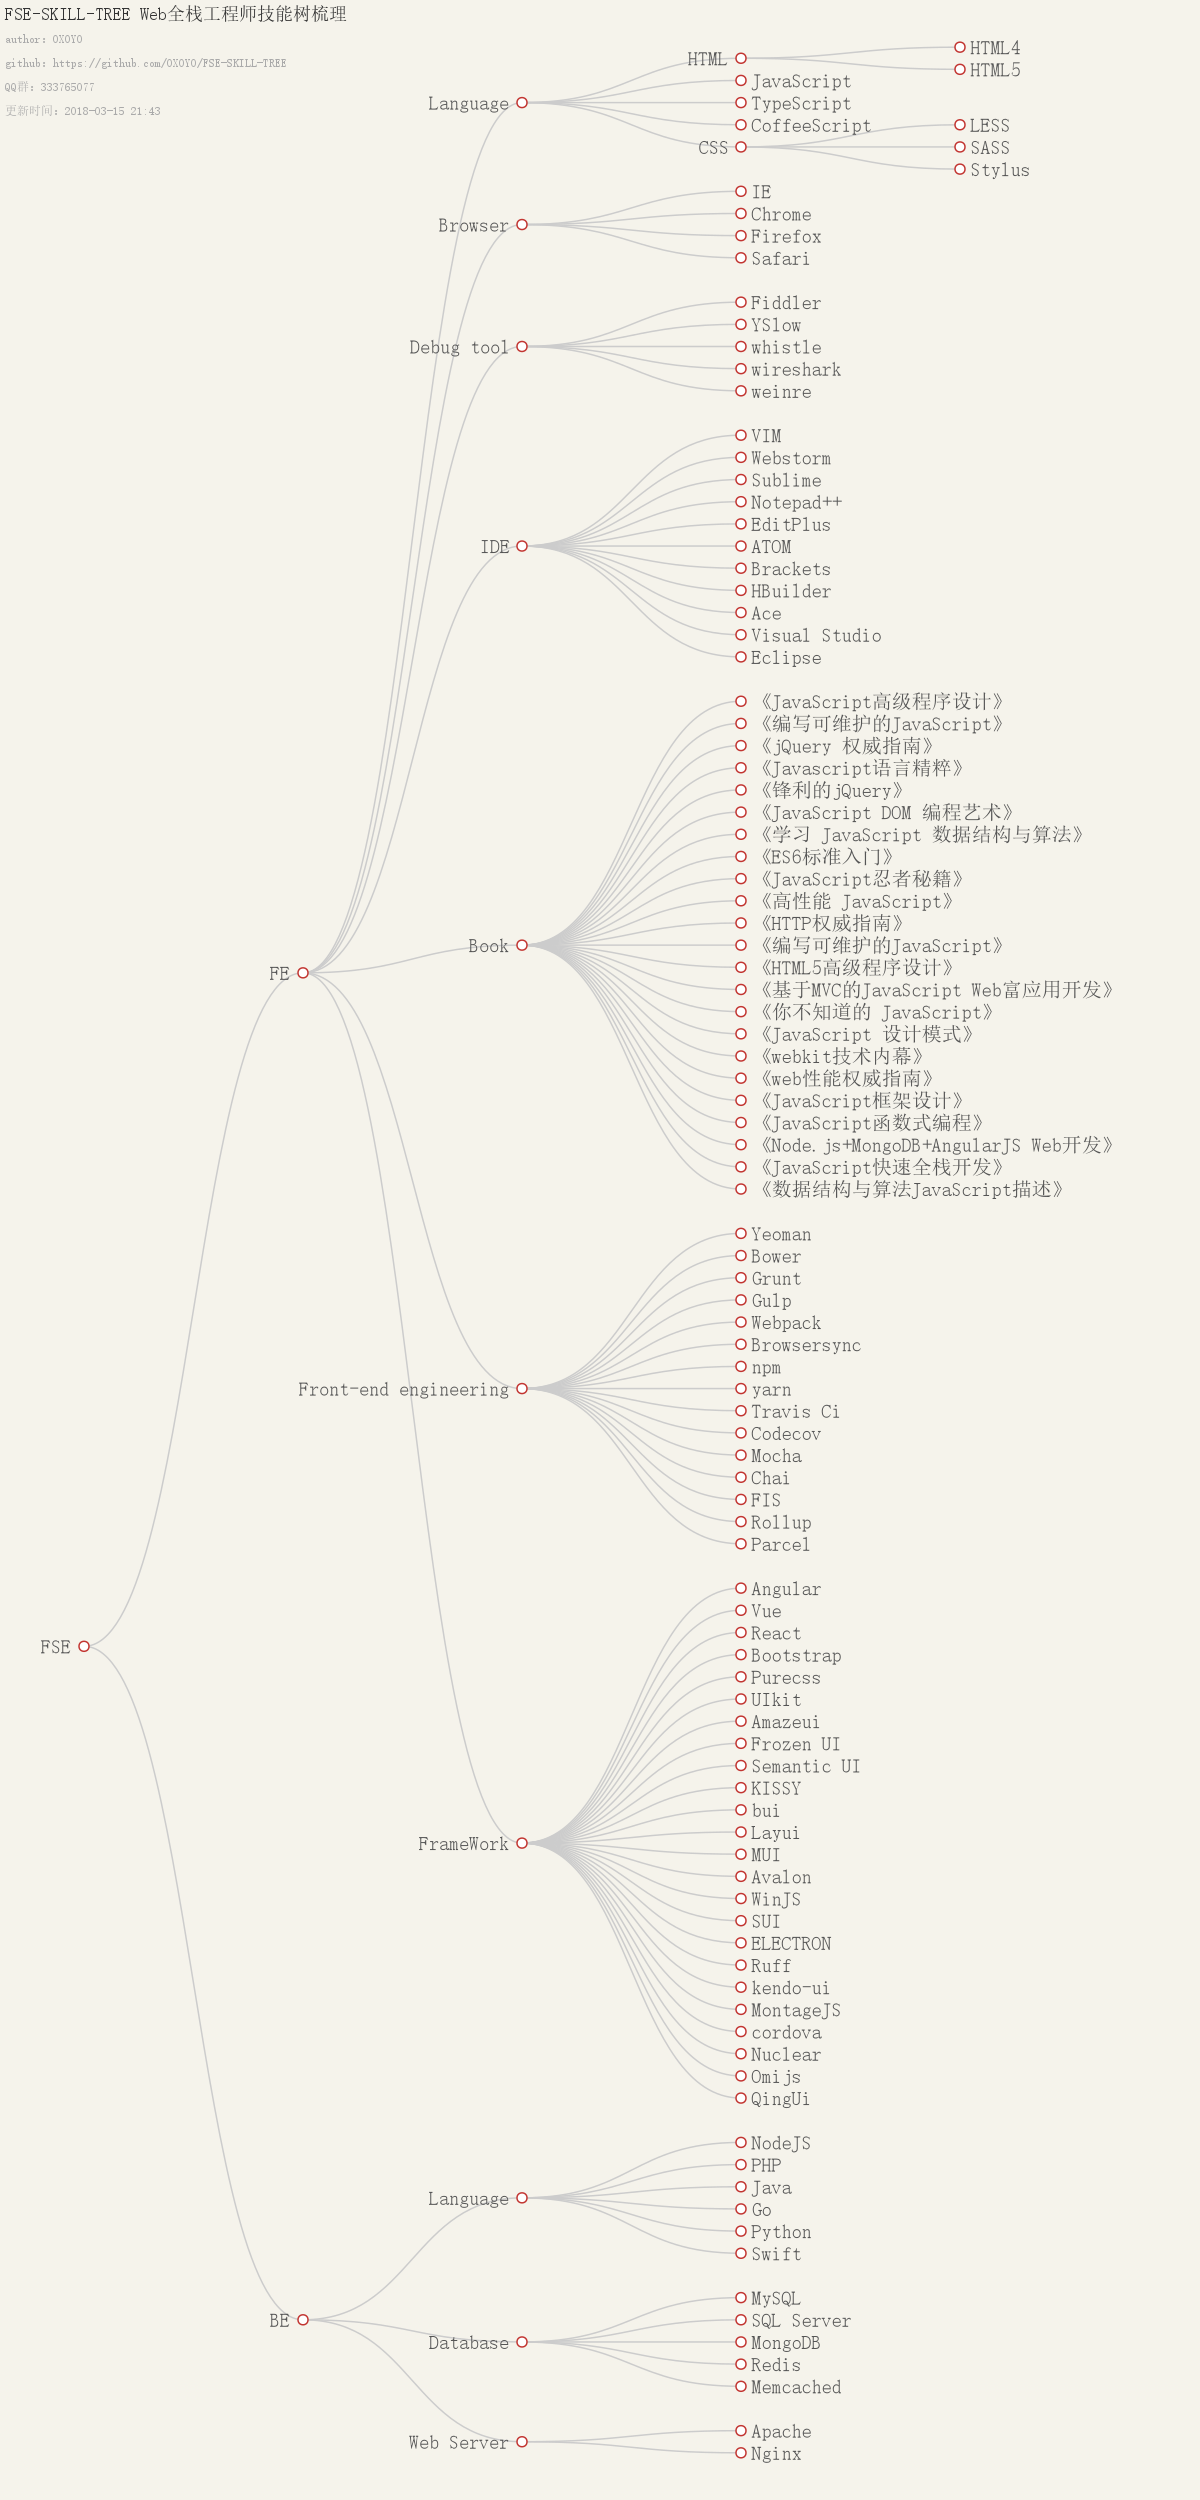
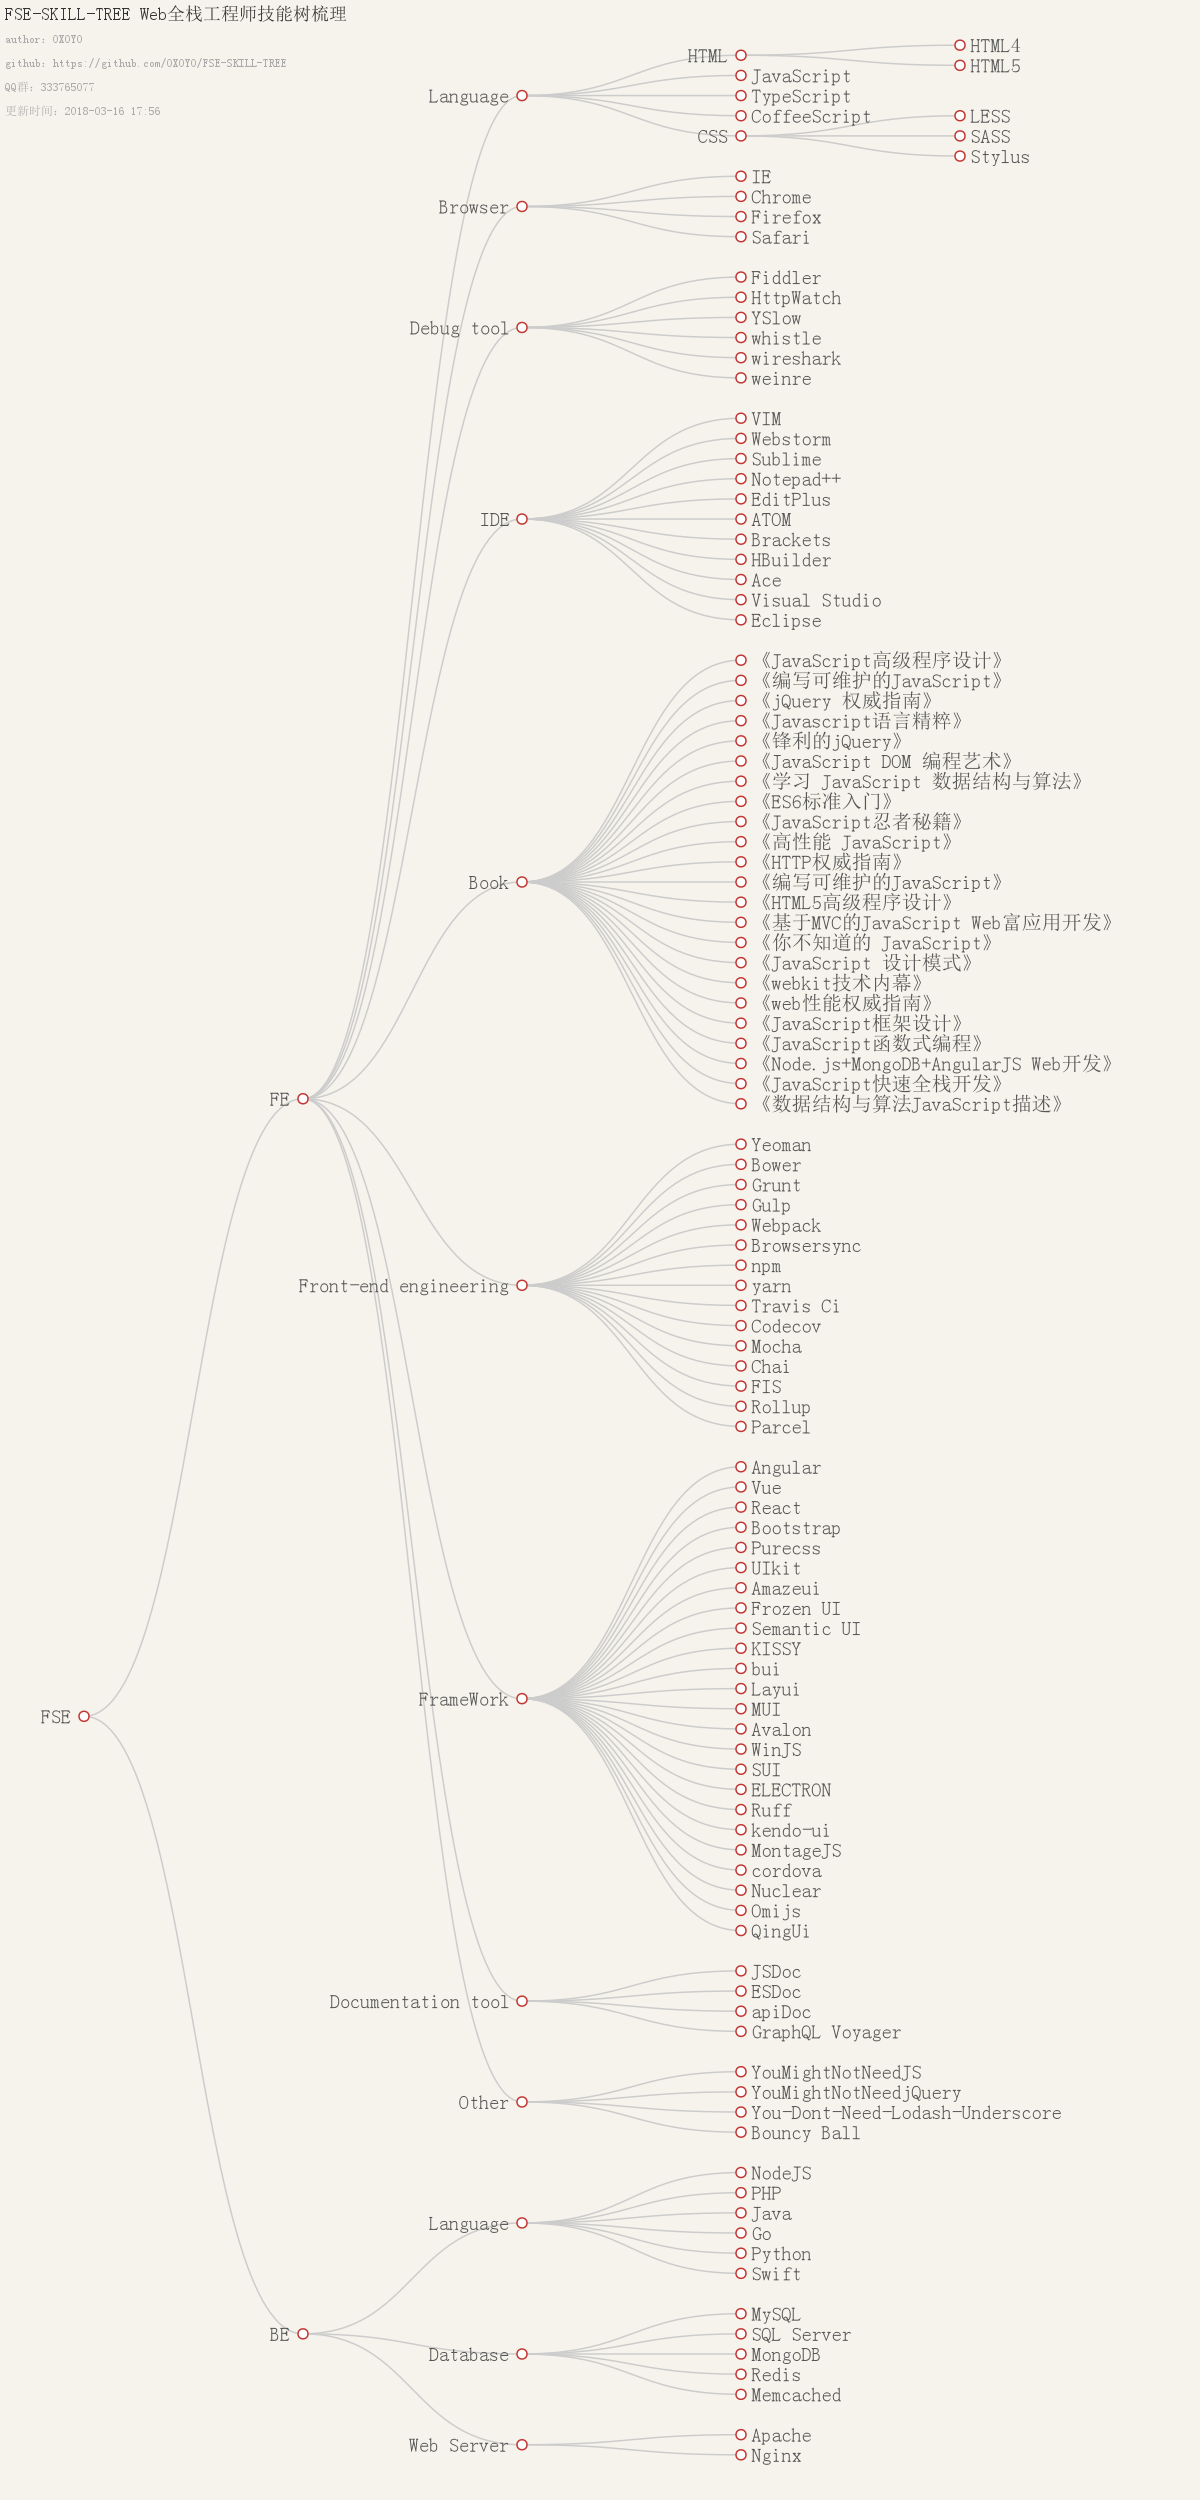
添加文档工具相关资料整理。

diff --git a/utils/FSE.js b/utils/FSE.js
@@ -243,6 +243,18 @@ module.exports = [
                 children: []
               },
               {
+                name: 'HttpWatch',
+                title: 'HttpWatch',
+                description: '',
+                type: 'catalog',
+                category: 'debug-tool',
+                url: {
+                  site: 'https://www.httpwatch.com/',
+                  github: ''
+                },
+                children: []
+              },
+              {
                 name: 'YSlow',
                 title: 'YSlow',
                 description: '',
@@ -1215,6 +1227,128 @@ module.exports = [
                 url: {
                   site: 'http://qingui.uis.cc/',
                   github: ''
+                },
+                children: []
+              }
+            ]
+          },
+          {
+            name: 'Documentation tool',
+            title: '文档工具',
+            description: '文档工具',
+            type: 'catalog',
+            category: 'documentation-tool',
+            url: {
+              site: '',
+              github: ''
+            },
+            children: [
+              {
+                name: 'JSDoc',
+                title: 'JSDoc',
+                description: 'An API documentation generator for JavaScript.',
+                type: 'catalog',
+                category: 'documentation-tool',
+                url: {
+                  site: 'http://usejsdoc.org/',
+                  github: 'https://github.com/jsdoc3/jsdoc'
+                },
+                children: []
+              },
+              {
+                name: 'ESDoc',
+                title: 'ESDoc',
+                description: 'ESDoc is a documentation generator for JavaScript.',
+                type: 'catalog',
+                category: 'documentation-tool',
+                url: {
+                  site: 'https://esdoc.org/',
+                  github: 'https://github.com/esdoc/esdoc'
+                },
+                children: []
+              },
+              {
+                name: 'apiDoc',
+                title: 'apiDoc',
+                description: 'Generates a RESTful web API Documentation.',
+                type: 'catalog',
+                category: 'documentation-tool',
+                url: {
+                  site: 'http://apidocjs.com/',
+                  github: 'https://github.com/apidoc/apidoc'
+                },
+                children: []
+              },
+              {
+                name: 'GraphQL Voyager',
+                title: 'GraphQL Voyager',
+                description: 'Represent any GraphQL API as an interactive graph. ',
+                type: 'catalog',
+                category: 'documentation-tool',
+                url: {
+                  site: 'https://apis.guru/graphql-voyager/',
+                  github: 'https://github.com/APIs-guru/graphql-voyager'
+                },
+                children: []
+              }
+            ]
+          },
+          {
+            name: 'Other',
+            title: '其他知识点',
+            description: '其他知识点',
+            type: 'catalog',
+            category: 'Other',
+            url: {
+              site: '',
+              github: ''
+            },
+            children: [
+              {
+                name: 'YouMightNotNeedJS',
+                title: 'YouMightNotNeedJS',
+                description: 'You might not need scripts at all.',
+                type: 'catalog',
+                category: 'Other',
+                url: {
+                  site: 'http://youmightnotneedjs.com/',
+                  github: 'https://github.com/una/YouMightNotNeedJS/'
+                },
+                children: []
+              },
+              {
+                name: 'YouMightNotNeedjQuery',
+                title: 'YouMightNotNeedjQuery',
+                description: 'You might not need scripts at all.',
+                type: 'catalog',
+                category: 'Other',
+                url: {
+                  site: 'http://youmightnotneedjquery.com/',
+                  github: 'https://github.com/HubSpot/youmightnotneedjquery'
+                },
+                children: []
+              },
+              {
+                name: 'You-Dont-Need-Lodash-Underscore',
+                title: 'You-Dont-Need-Lodash-Underscore',
+                description: 'List of JavaScript methods which you can use natively + ESLint Plugin',
+                type: 'catalog',
+                category: 'Other',
+                url: {
+                  site: '',
+                  github: 'https://github.com/you-dont-need/You-Dont-Need-Lodash-Underscore'
+                },
+                children: []
+              },
+              {
+                name: 'Bouncy Ball',
+                title: 'Bouncy Ball',
+                description: 'Compare web animation techniques by bouncing a ball with each one.',
+                type: 'catalog',
+                category: 'Other',
+                url: {
+                  site: 'http://sparkbox.github.io/bouncy-ball',
+                  github: 'https://github.com/sparkbox/bouncy-ball'
                 },
                 children: []
               }

diff --git a/README.md b/README.md
@@ -5,7 +5,7 @@ Web全栈工程师技能树梳理
 
 
 
-更新时间：2018-03-15 21:43
+更新时间：2018-03-16 17:56
 
 ![FSE](./utils/FSE.png)
 
@@ -124,6 +124,12 @@ Stylus
 #### Fiddler  
 
 [site](https://www.telerik.com/fiddler)  
+
+
+
+#### HttpWatch  
+
+[site](https://www.httpwatch.com/)  
 
 
 
@@ -512,6 +518,86 @@ Parcel  [site](https://parceljs.org/)  [github](https://github.com/parcel-bundle
 #### QingUi  
 
 [site](http://qingui.uis.cc/)  
+
+
+
+### 文档工具  
+
+
+
+  文档工具
+
+
+
+#### JSDoc  
+
+[site](http://usejsdoc.org/)  [github](https://github.com/jsdoc3/jsdoc)  
+
+  An API documentation generator for JavaScript.
+
+
+
+#### ESDoc  
+
+[site](https://esdoc.org/)  [github](https://github.com/esdoc/esdoc)  
+
+  ESDoc is a documentation generator for JavaScript.
+
+
+
+#### apiDoc  
+
+[site](http://apidocjs.com/)  [github](https://github.com/apidoc/apidoc)  
+
+  Generates a RESTful web API Documentation.
+
+
+
+#### GraphQL Voyager  
+
+[site](https://apis.guru/graphql-voyager/)  [github](https://github.com/APIs-guru/graphql-voyager)  
+
+  Represent any GraphQL API as an interactive graph. 
+
+
+
+### 其他知识点  
+
+
+
+  其他知识点
+
+
+
+#### YouMightNotNeedJS  
+
+[site](http://youmightnotneedjs.com/)  [github](https://github.com/una/YouMightNotNeedJS/)  
+
+  You might not need scripts at all.
+
+
+
+#### YouMightNotNeedjQuery  
+
+[site](http://youmightnotneedjquery.com/)  [github](https://github.com/HubSpot/youmightnotneedjquery)  
+
+  You might not need scripts at all.
+
+
+
+#### You-Dont-Need-Lodash-Underscore  
+
+[github](https://github.com/you-dont-need/You-Dont-Need-Lodash-Underscore)  
+
+  List of JavaScript methods which you can use natively + ESLint Plugin
+
+
+
+#### Bouncy Ball  
+
+[site](http://sparkbox.github.io/bouncy-ball)  [github](https://github.com/sparkbox/bouncy-ball)  
+
+  Compare web animation techniques by bouncing a ball with each one.
 
 
 
